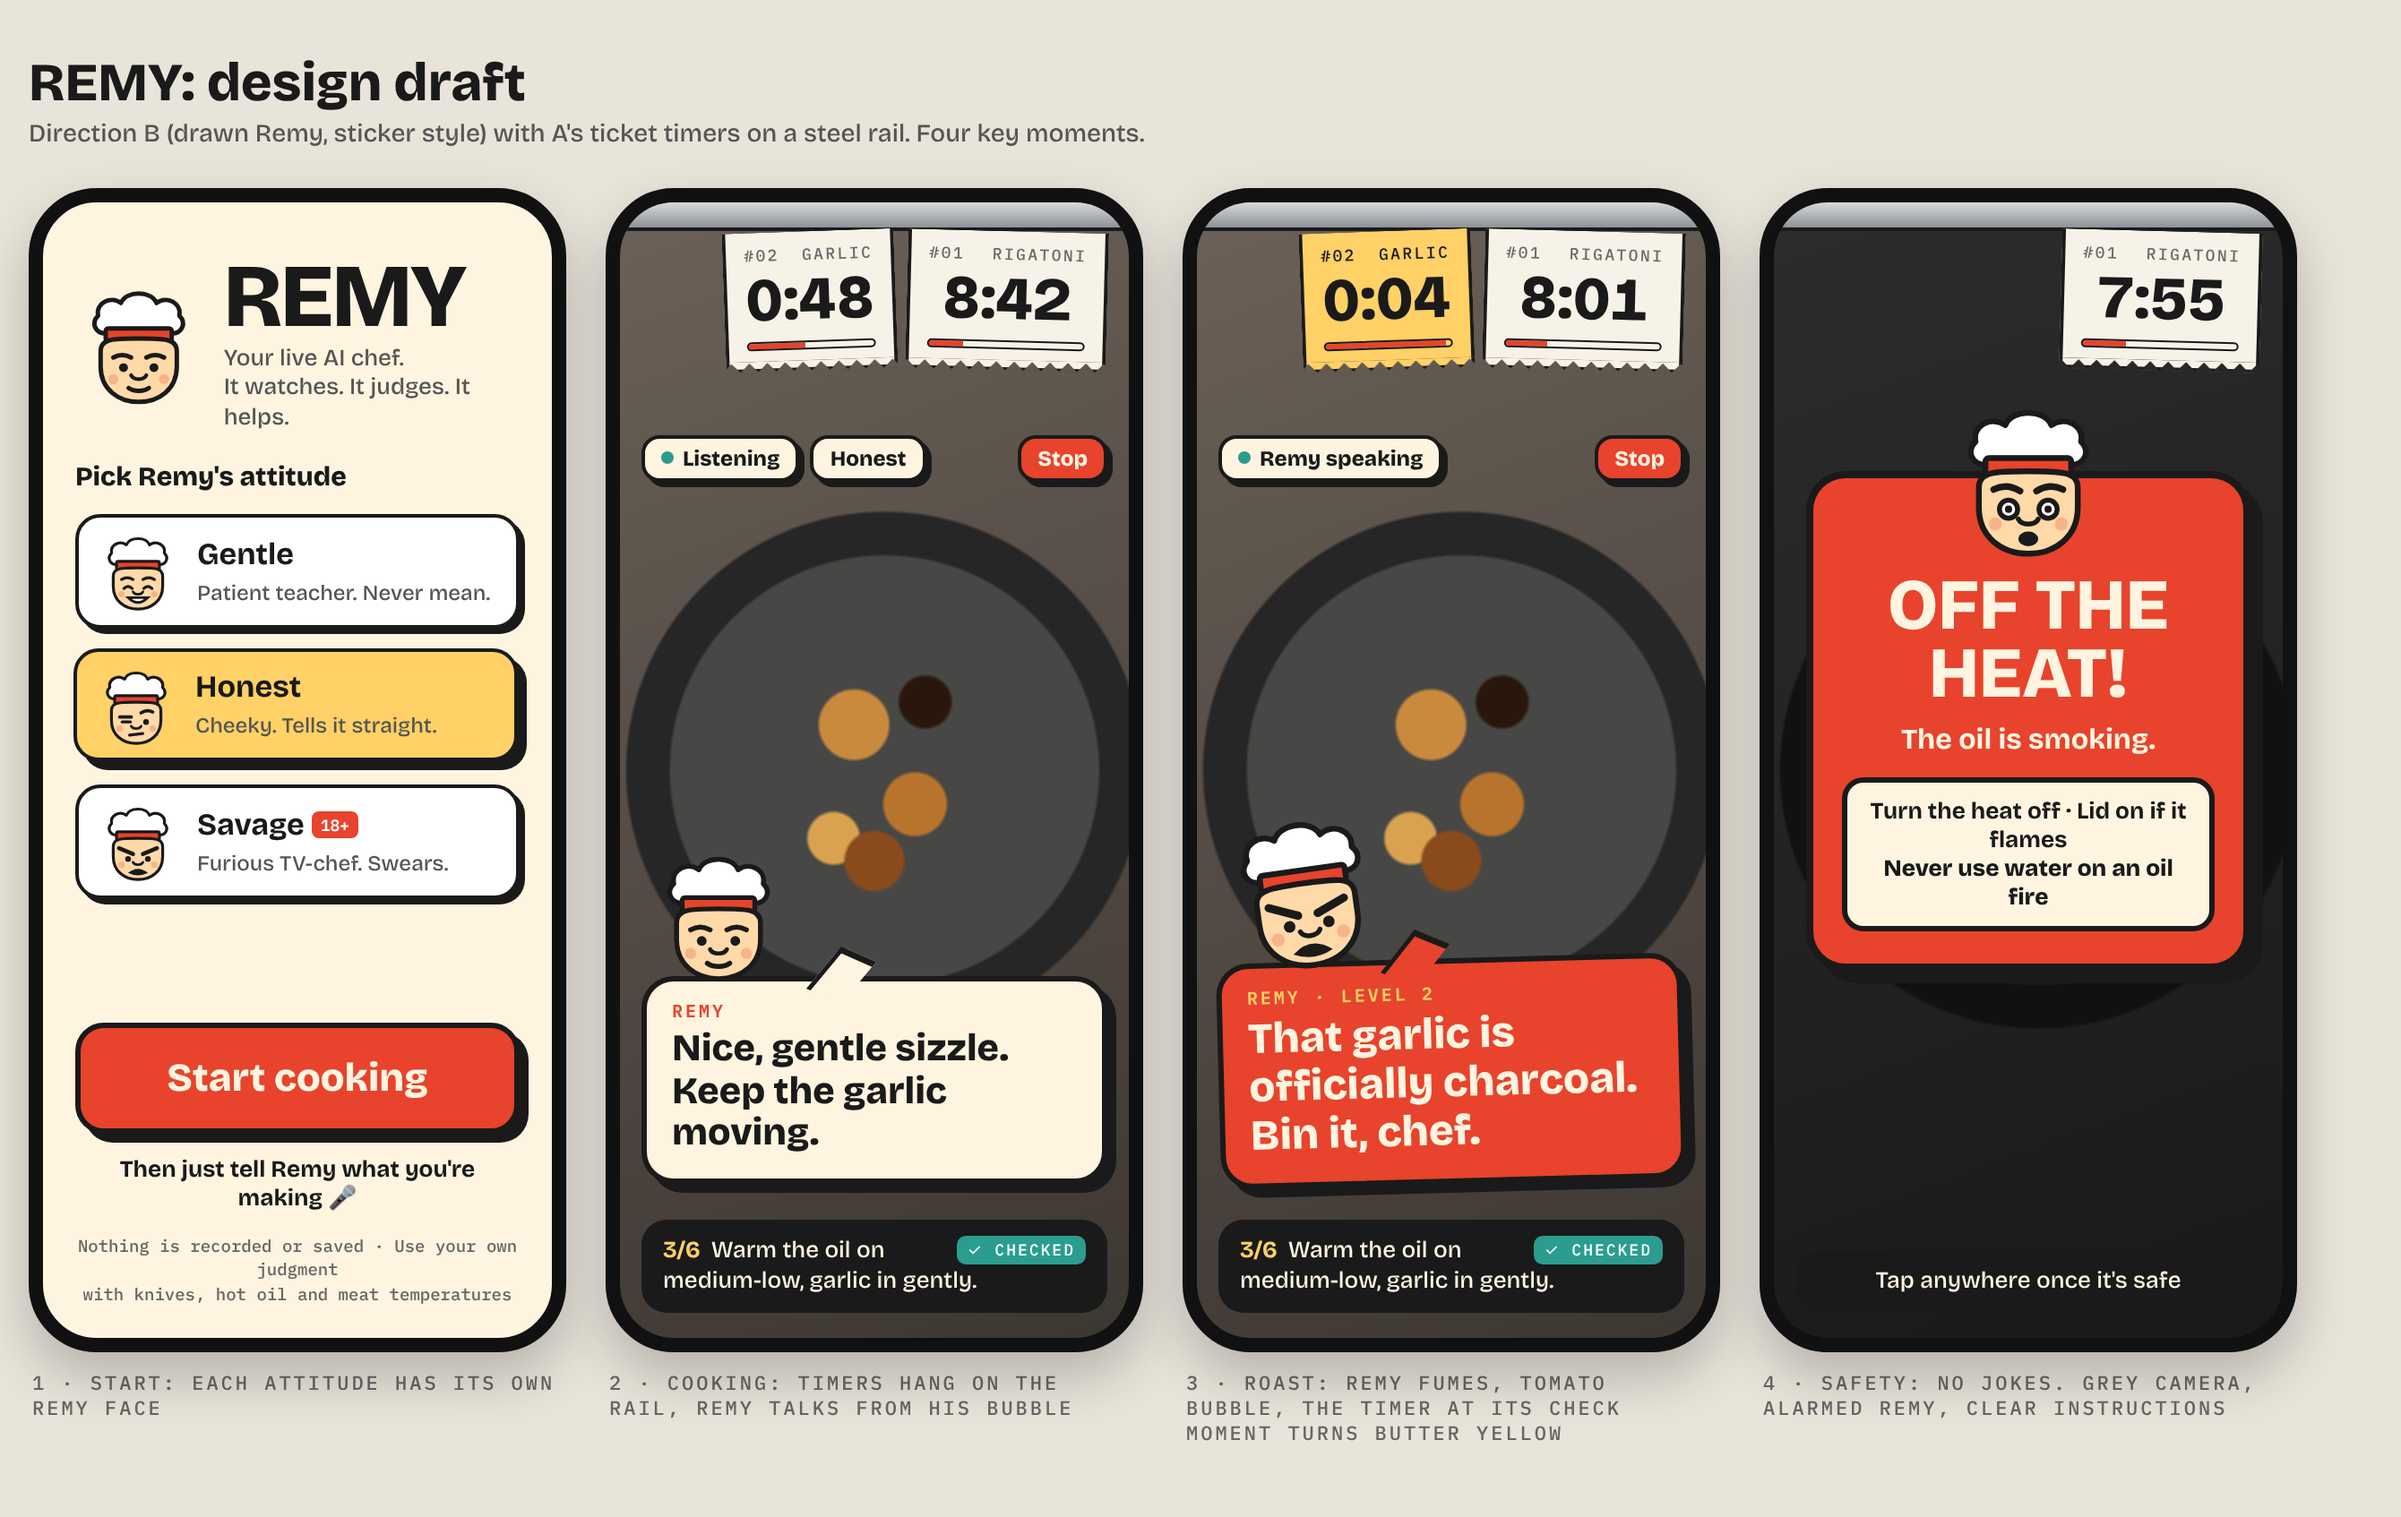
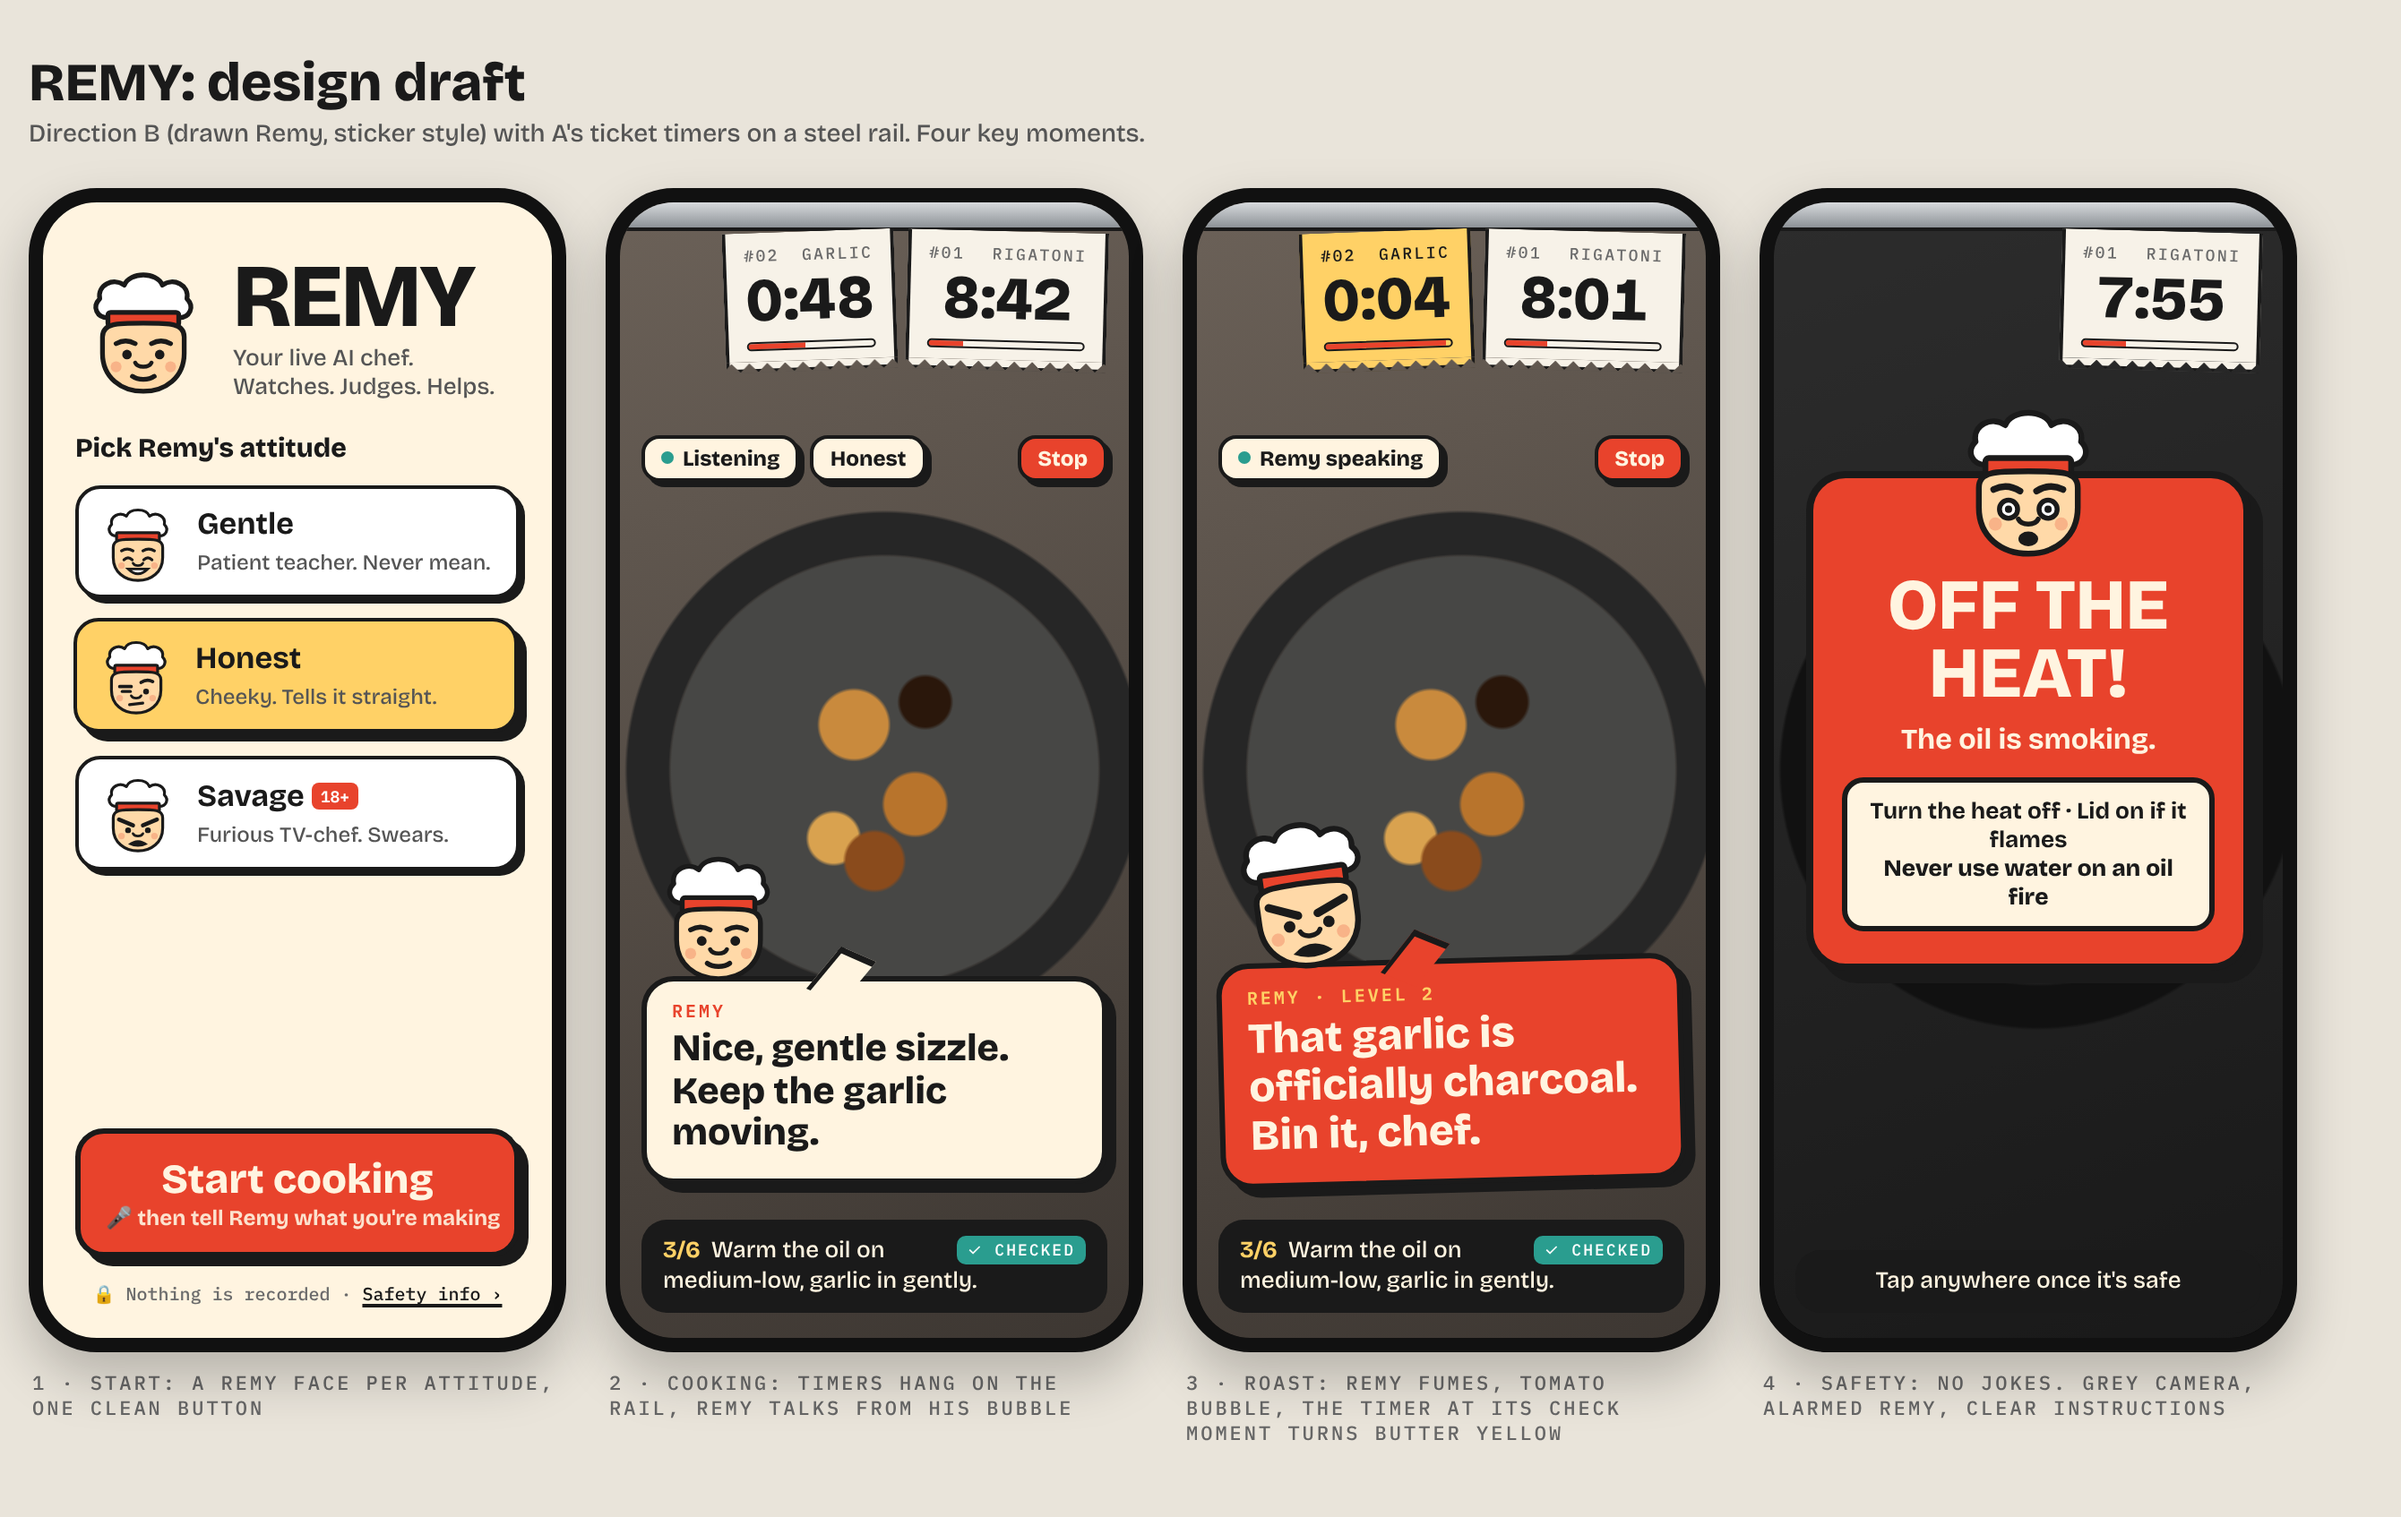
Design draft: cleaner start screen bottom
Hint moves inside the Start button as a second line; the two lines of fine
print become one ('Nothing is recorded · Safety info ›', which opens the
full note); shorter tagline.

Part of #52

Claude-Session: https://claude.ai/code/session_013QxH9c7G16aRqXr4z1VNsj

diff --git a/docs/design/draft.html b/docs/design/draft.html
@@ -80,9 +80,10 @@
   .mode.on { background: var(--butter); box-shadow: 5px 5px 0 var(--ink); transform: translate(-1px, -1px); }
   .mode .age { font-family: "IBM Plex Mono", monospace; font-size: 9px; background: var(--tomato); color: #fff; padding: 2px 5px; border-radius: 4px; margin-left: 4px; vertical-align: 2px; }
   .go { margin-top: auto; background: var(--tomato); color: var(--cream); border: var(--line); border-radius: 16px; box-shadow: 5px 5px 0 var(--ink);
-    font-weight: 800; font-size: 22px; padding: 15px; text-align: center; }
-  .hint { text-align: center; font-size: 13px; font-weight: 700; }
-  .fine { font-family: "IBM Plex Mono", monospace; font-size: 9.5px; color: #666; line-height: 1.4; text-align: center; }
+    font-weight: 800; font-size: 23px; padding: 13px 14px 12px; text-align: center; line-height: 1.1; }
+  .go small { display: block; font-size: 12px; white-space: nowrap; font-weight: 600; opacity: .9; margin-top: 3px; }
+  .fine { font-family: "IBM Plex Mono", monospace; font-size: 10px; color: #6b6b6b; text-align: center; margin-top: 2px; }
+  .fine u { text-decoration-thickness: 1.5px; text-underline-offset: 2px; color: var(--ink); }
 
   /* ---------- 4. alert ---------- */
   .alert .cam { filter: grayscale(1) brightness(.45); }
@@ -122,16 +123,15 @@
     <div class="shot">
       <div class="phone start"><div class="inner">
         <div class="brand"><svg class="face" viewBox="0 0 100 104"><use href="#f-watch"/></svg>
-          <div><h2>REMY</h2><p>Your live AI chef.<br>It watches. It judges. It helps.</p></div></div>
+          <div><h2>REMY</h2><p>Your live AI chef.<br>Watches. Judges. Helps.</p></div></div>
         <div class="pick">Pick Remy's attitude</div>
         <div class="mode"><svg viewBox="0 0 100 104"><use href="#f-proud"/></svg><div><b>Gentle</b><small>Patient teacher. Never mean.</small></div></div>
         <div class="mode on"><svg viewBox="0 0 100 104"><use href="#f-sus"/></svg><div><b>Honest</b><small>Cheeky. Tells it straight.</small></div></div>
         <div class="mode"><svg viewBox="0 0 100 104"><use href="#f-fury"/></svg><div><b>Savage<span class="age">18+</span></b><small>Furious TV-chef. Swears.</small></div></div>
-        <div class="go">Start cooking</div>
-        <div class="hint">Then just tell Remy what you're making 🎤</div>
-        <div class="fine">Nothing is recorded or saved · Use your own judgment<br>with knives, hot oil and meat temperatures</div>
+        <div class="go">Start cooking<small>🎤 then tell Remy what you're making</small></div>
+        <div class="fine">🔒 Nothing is recorded · <u>Safety info ›</u></div>
       </div></div>
-      <div class="label">1 · Start: each attitude has its own Remy face</div>
+      <div class="label">1 · Start: a Remy face per attitude, one clean button</div>
     </div>
 
     <!-- 2. COOKING -->
